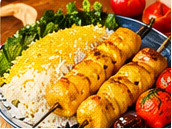
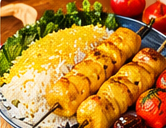
chore: add food images

diff --git a/src/data/foods.ts b/src/data/foods.ts
@@ -115,7 +115,7 @@ export const foods = [
     name: "دلمه برگ مو",
     price: 220000,
     description: "برگ مو، برنج، لپه و سبزی معطر",
-    image: "images/menu/traditional-food/dolmeh-barg-moo.jpg",
+    image: "images/menu/traditional-food/dolmeh.jpg",
     category: "traditional-food",
     isPopular: false,
   },
@@ -153,7 +153,7 @@ export const foods = [
     name: "سالاد سزار رژیمی",
     price: 240000,
     description: "مرغ گریلشده، کاهو و سس رژیمی",
-    image: "images/menu/healthy-food/healthy-caesar.jpg",
+    image: "images/menu/healthy-food/caesar-salad.jpg",
     category: "healthy-food",
     isPopular: false,
   },
@@ -171,7 +171,7 @@ export const foods = [
     name: "سالاد کینوا",
     price: 220000,
     description: "کینوا، خیار، گوجه و سبزیجات تازه",
-    image: "images/menu/healthy-food/quinoa-salad.jpg",
+    image: "images/menu/healthy-food/kinva-salad.jpg",
     category: "healthy-food",
     isPopular: false,
   },
@@ -198,7 +198,7 @@ export const foods = [
     name: "خوراک لوبیا",
     price: 160000,
     description: "لوبیا چیتی، قارچ و گوجهفرنگی",
-    image: "images/menu/healthy-food/bean-stew.jpg",
+    image: "images/menu/healthy-food/loobia-khorak.jpg",
     category: "healthy-food",
     isPopular: false,
   },
@@ -216,7 +216,7 @@ export const foods = [
     name: "خوراک مرغ و کینوا",
     price: 260000,
     description: "مرغ گریلشده همراه با کینوا، سبزیجات تازه و سس کمچرب",
-    image: "images/menu/healthy-food/chicken-quinoa.jpg",
+    image: "images/menu/healthy-food/chicken-kinva.jpg",
     category: "healthy-food",
     isPopular: false,
   },
@@ -272,7 +272,7 @@ export const foods = [
     name: "سیبزمینی سرخکرده",
     price: 140000,
     description: "سیبزمینی ترد با ادویه مخصوص",
-    image: "images/menu/fast-food/french-fries.jpg",
+    image: "images/menu/fast-food/sorkhshode-sibzamini.jpg",
     category: "fast-food",
     isPopular: false,
   },
@@ -301,7 +301,7 @@ export const foods = [
     name: "کیک شکلاتی",
     price: 180000,
     description: "کیک شکلاتی نرم با گاناش",
-    image: "images/menu/dessert/chocolate-cake.jpg",
+    image: "images/menu/desserts/chocolate-cake.jpg",
     category: "dessert",
     isPopular: false,
   },
@@ -310,7 +310,7 @@ export const foods = [
     name: "چیزکیک",
     price: 210000,
     description: "چیزکیک خامهای با بیسکویت",
-    image: "images/menu/dessert/cheesecake.jpg",
+    image: "images/menu/desserts/cheesecake.jpg",
     category: "dessert",
     isPopular: false,
   },
@@ -319,7 +319,7 @@ export const foods = [
     name: "تیرامیسو",
     price: 220000,
     description: "دسر لایهای با قهوه و کرم ماسکارپونه",
-    image: "images/menu/dessert/tiramisu.jpg",
+    image: "images/menu/desserts/tiramisu.jpg",
     category: "dessert",
     isPopular: false,
   },
@@ -328,7 +328,7 @@ export const foods = [
     name: "ژله میوهای",
     price: 90000,
     description: "ژله خنک با تکههای میوه",
-    image: "images/menu/dessert/fruit-jelly.jpg",
+    image: "images/menu/desserts/fruit-jelly.jpg",
     category: "dessert",
     isPopular: false,
   },
@@ -337,7 +337,7 @@ export const foods = [
     name: "سالاد فصل",
     price: 130000,
     description: "کاهو، خیار، گوجه و هویج تازه",
-    image: "images/menu/dessert/garden-salad.jpg",
+    image: "images/menu/desserts/fasl-salad.jpg",
     category: "dessert",
     isPopular: false,
   },
@@ -346,7 +346,7 @@ export const foods = [
     name: "سوپ قارچ",
     price: 150000,
     description: "سوپ گرم با قارچ و خامه",
-    image: "images/menu/dessert/mushroom-soup.jpg",
+    image: "images/menu/desserts/mushroom-soup.jpg",
     category: "dessert",
     isPopular: false,
   },
@@ -355,7 +355,7 @@ export const foods = [
     name: "ماست و خیار",
     price: 80000,
     description: "ماست، خیار، نعناع و کشمش",
-    image: "images/menu/dessert/yogurt-cucumber.jpg",
+    image: "images/menu/desserts/mast-khiar.jpg",
     category: "dessert",
     isPopular: false,
   },
@@ -364,7 +364,7 @@ export const foods = [
     name: "سیبزمینی تنوری",
     price: 120000,
     description: "سیبزمینی تنوری با ادویه و سس",
-    image: "images/menu/dessert/baked-potato.jpg",
+    image: "images/menu/desserts/tanoori-sibzamini.jpg",
     category: "dessert",
     isPopular: false,
   },
@@ -384,7 +384,7 @@ export const foods = [
     name: "موهیتو",
     price: 140000,
     description: "نعناع تازه، لیمو و آب گازدار",
-    image: "images/menu/drinks/mojito.jpg",
+    image: "images/menu/drinks/mohito.jpg",
     category: "drinks",
     isPopular: false,
   },
@@ -429,7 +429,7 @@ export const foods = [
     name: "اسموتی توتفرنگی",
     price: 170000,
     description: "توت فرنگی، موز و ماست",
-    image: "images/menu/drinks/strawberry-smoothie.jpg",
+    image: "images/menu/drinks/smoothie.jpg",
     category: "drinks",
     isPopular: false,
   },
